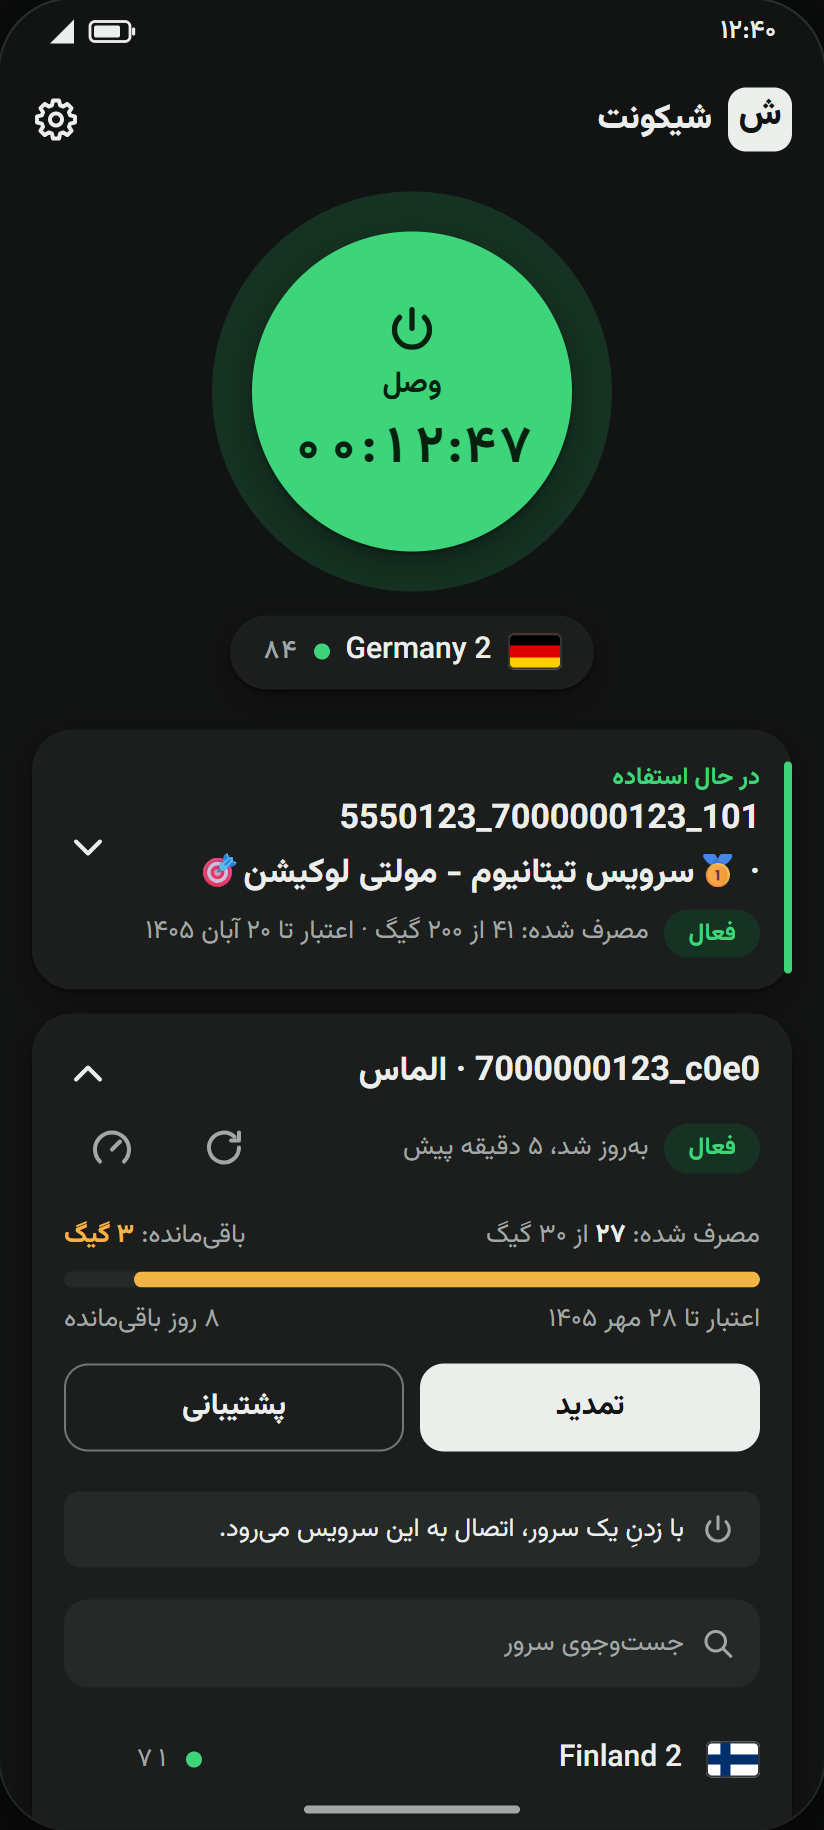
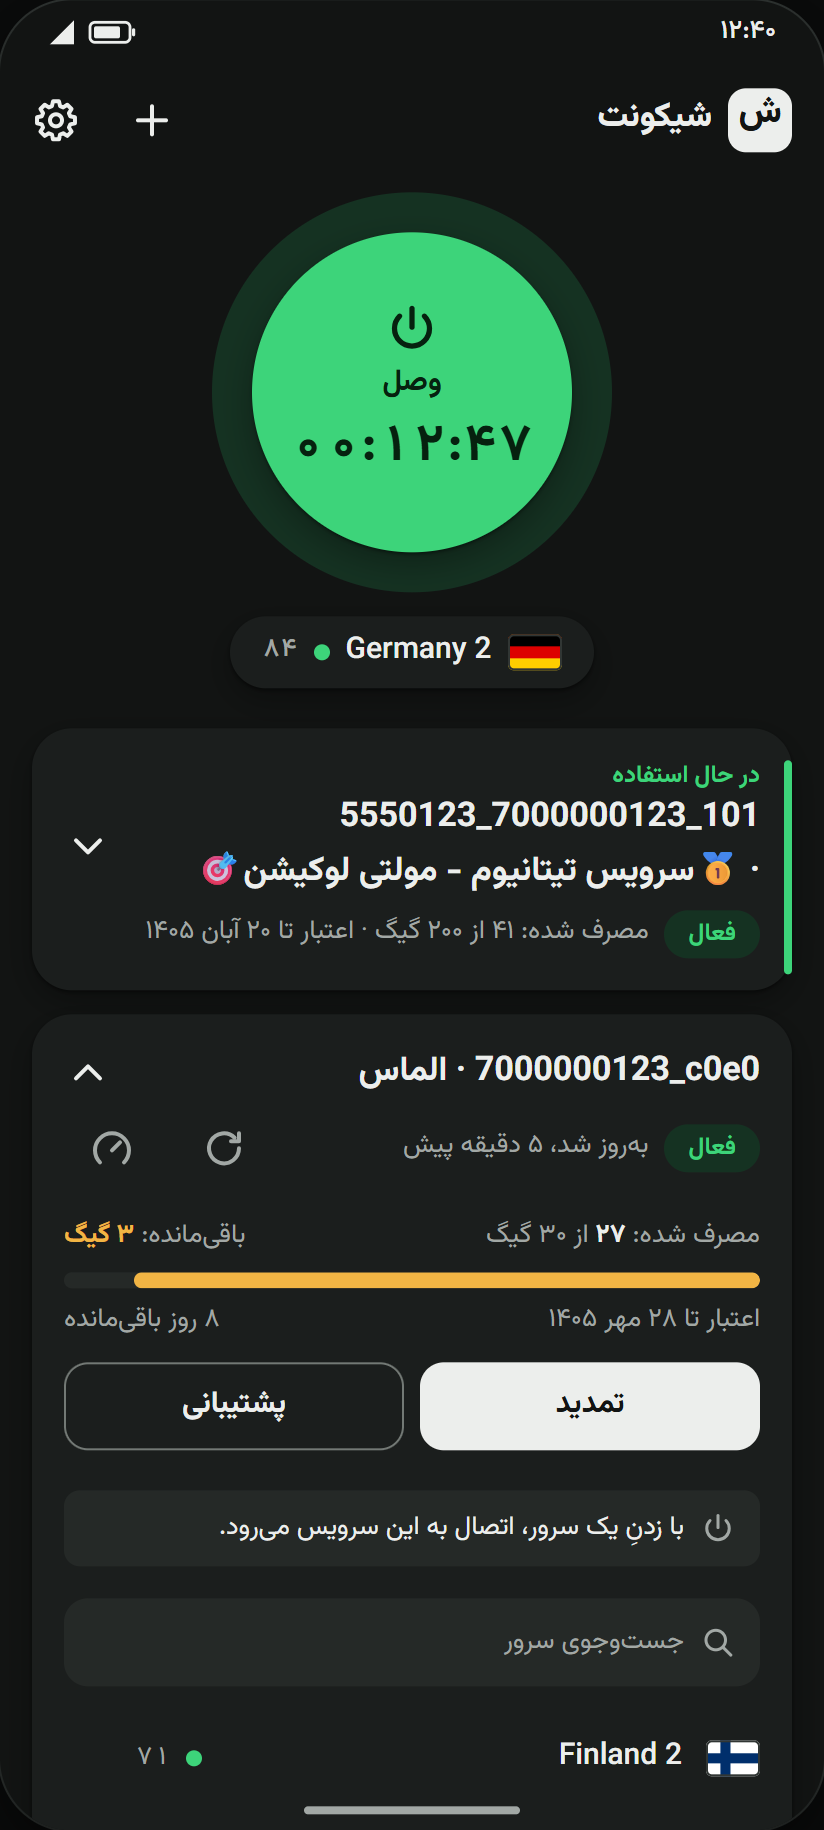
fix(design): answer the review of the add and order picks
The picked «+» note names the separate screen and the no-service rule, the add screen note names the cards that really hold the paste block, the picked in-use and order frames get the «+», the name-fit comment points at the merged package, and revokedHelp now sends people to the «+» instead of Settings.

diff --git a/design/mockups/phone-five.html b/design/mockups/phone-five.html
@@ -85,7 +85,7 @@
       </div>
       <div class="gesture"></div>
     </div>
-    <p class="note">دکمهٔ «+» همیشه بالای خانه است، کنار چرخدنده؛ همان جایی که «+»ِ اپهای مشابه است. زدنش برگهٔ «افزودن سرویس» را باز میکند.</p>
+    <p class="note">دکمهٔ «+» بالای خانه است، کنار چرخدنده؛ همان جایی که «+»ِ اپهای مشابه است. زدنش صفحهٔ «افزودن سرویس» را باز میکند (قابهای «صفحه» پایینتر).</p>
     <p class="note">تصمیمشده: فقط گوشی، و تنها راه چسباندن لینک اشتراک شیکونت است. تلویزیون «+» ندارد.</p>
     <p class="note"><b>چرا</b>یک زدن از همان جایی که مشتری «+» را میجوید؛ به بلندی فهرست چیزی اضافه نمیکند و با هر تعداد سرویس همانجاست.</p>
     <p class="note">قاعدهٔ «+»: فقط روی گوشی، و هر وقت خانه دستکم یک کارت سرویس دارد، وارد شده باشی یا فقط با لینک چسبانده باشی. تلویزیون هیچوقت «+» ندارد. خانهای که هیچ سرویسی ندارد «+» ندارد، چون همانجا کارتش دکمهٔ چسباندن دارد؛ دو راه برای یک کار روی یک صفحه نمیآید.</p>
@@ -274,8 +274,8 @@
       </div>
       <div class="gesture"></div>
     </div>
-    <p class="note">«+» این صفحه را باز میکند. چیزی تازه ساخته نمیشود: همان بخشِ چسباندنِ اپ است (همان که در صفحهٔ ورود، ردیف «چسباندن لینک دیگر» در تنظیمات و کارتِ «لینک باطل شده» هست)، با پیامها بالای دکمه و «ارسال گزارش به پشتیبانی». فقط یک نوار بالا با برگشت و عنوان، و یک خط راهنما دورش است.</p>
-    <p class="note">فرق با طرحِ قبلیِ این صفحه: دایره و خطِ «فقط لینک اشتراک شیکونت» برداشته شدند؛ پیام «شیکونت نیست» همان را وقتی لازم است میگوید. دکمه پُر است، مثل کارتِ «لینک باطل شده»، چون تنها کارِ صفحه است.</p>
+    <p class="note">«+» این صفحه را باز میکند. چیزی تازه ساخته نمیشود: همان بخشِ چسباندنِ اپ است (همان که در صفحهٔ ورود، ردیف «چسباندن لینک دیگر» در تنظیمات، و کارتِ خانه وقتی هیچ سرویسی روی گوشی نیست، هست)، با پیامها بالای دکمه و «ارسال گزارش به پشتیبانی». فقط یک نوار بالا با برگشت و عنوان، و یک خط راهنما دورش است.</p>
+    <p class="note">فرق با طرحِ قبلیِ این صفحه: دایره و خطِ «فقط لینک اشتراک شیکونت» برداشته شدند؛ پیام «شیکونت نیست» همان را وقتی لازم است میگوید. دکمه پُر است، مثل همان کارتِ خانهٔ بیسرویس، چون تنها کارِ صفحه است.</p>
     <p class="note">بعد از چسباندنِ درست، صفحه بسته میشود و خانه برمیگردد، مثل ردیف تنظیمات امروز. لینک هیچجا نشان داده نمیشود.</p>
   </figure>
 
@@ -752,7 +752,7 @@
       <div class="statusbar"><span>۱۲:۴۰</span><svg><use href="#sb"/></svg></div>
       <div class="appbar">
         <div class="brand"><span class="mark">ش</span><span>شیکونت</span></div>
-        <div class="appbar-actions"><button class="icon-btn" type="button" aria-label="تنظیمات"><svg class="icon"><use href="#i-gear"/></svg></button></div>
+        <div class="appbar-actions"><button class="icon-btn" type="button" aria-label="افزودن سرویس با لینک"><svg class="icon"><use href="#i-plus"/></svg></button><button class="icon-btn" type="button" aria-label="تنظیمات"><svg class="icon"><use href="#i-gear"/></svg></button></div>
       </div>
       <div class="home">
         <section class="power-zone is-on">

diff --git a/design/mockups/phone-states.html b/design/mockups/phone-states.html
@@ -534,7 +534,7 @@
           <div class="svc-line"><h2 class="svc-name"><bdi dir="ltr">user456</bdi> · طلایی</h2><svg class="icon"><use href="#i-chevron-up"/></svg></div>
           <div class="svc-row"><span class="chip chip-danger">لینک باطل شده</span><p class="svc-sub">بهروز نشد</p><span class="end"><button class="icon-btn" type="button" aria-label="بهروزرسانی سرورها"><svg class="icon"><use href="#i-refresh"/></svg></button></span></div>
         </header>
-        <p class="notice msg danger"><svg class="icon"><use href="#i-alert"/></svg><span><strong>این لینک باطل شده.</strong> حذفش کن، یا لینک تازه را از ربات یا نمایندهات بگیر و در «تنظیمات» بچسبان.</span></p>
+        <p class="notice msg danger"><svg class="icon"><use href="#i-alert"/></svg><span><strong>این لینک باطل شده.</strong> حذفش کن، یا لینک تازه را از ربات یا نمایندهات بگیر و با «+» بالای خانه بچسبان.</span></p>
         <div class="actions">
           <button class="btn btn-outline danger" type="button" aria-label="حذف user456 · طلایی">حذف</button>
           <button class="btn btn-outline" type="button">پشتیبانی</button>
@@ -543,7 +543,7 @@
       <article class="card svc">
         <header class="svc-head is-stacked">
           <div class="svc-line"><h2 class="svc-name"><bdi dir="ltr">user456</bdi> · طلایی</h2><svg class="icon"><use href="#i-chevron-down"/></svg></div>
-          <div class="svc-row"><span class="chip chip-danger">لینک باطل شده</span><p class="svc-summary">حذفش کن، یا لینک تازه را از ربات یا نمایندهات بگیر و در «تنظیمات» بچسبان.</p></div>
+          <div class="svc-row"><span class="chip chip-danger">لینک باطل شده</span><p class="svc-summary">حذفش کن، یا لینک تازه را از ربات یا نمایندهات بگیر و با «+» بالای خانه بچسبان.</p></div>
         </header>
       </article>
     </div>

diff --git a/design/mockups/phone-four.html b/design/mockups/phone-four.html
@@ -350,7 +350,7 @@
       <div class="statusbar"><span>۱۲:۴۰</span><svg><use href="#sb"/></svg></div>
       <div class="appbar">
         <div class="brand"><span class="mark">ش</span><span>شیکونت</span></div>
-        <button class="icon-btn" type="button" aria-label="تنظیمات"><svg class="icon"><use href="#i-gear"/></svg></button>
+        <div class="appbar-actions"><button class="icon-btn" type="button" aria-label="افزودن سرویس با لینک"><svg class="icon"><use href="#i-plus"/></svg></button><button class="icon-btn" type="button" aria-label="تنظیمات"><svg class="icon"><use href="#i-gear"/></svg></button></div>
       </div>
       <div class="home">
         <section class="power-zone is-on">
@@ -407,7 +407,7 @@
       <div class="statusbar"><span>۱۲:۴۰</span><svg><use href="#sb"/></svg></div>
       <div class="appbar">
         <div class="brand"><span class="mark">ش</span><span>شیکونت</span></div>
-        <button class="icon-btn" type="button" aria-label="تنظیمات"><svg class="icon"><use href="#i-gear"/></svg></button>
+        <div class="appbar-actions"><button class="icon-btn" type="button" aria-label="افزودن سرویس با لینک"><svg class="icon"><use href="#i-plus"/></svg></button><button class="icon-btn" type="button" aria-label="تنظیمات"><svg class="icon"><use href="#i-gear"/></svg></button></div>
       </div>
       <div class="home">
         <section class="power-zone">

diff --git a/design/mockups/mockup.js b/design/mockups/mockup.js
@@ -80,8 +80,7 @@ function mockScroll(view) {
 }
 // نام سرویس در جای ثابتش (تصمیم ۲۰ مهر): حداکثر data-lines خط (پیشفرض ۲؛ میشکند فقط پیش از «·»).
 // اگر جا نشد، قلم پلهپله تا --name-shrink-min ریز میشود؛ بعد نام کاربری (bdi) از وسط کوتاه میشود و پنج حرف
-// آخرش میماند؛ و اگر باز جا نشد، رده (.tier) از ته «…» میگیرد. قاعدهٔ بستهٔ ۱ (شاخهٔ feat/service-name-row،
-// هنوز ادغام نشده).
+// آخرش میماند؛ و اگر باز جا نشد، رده (.tier) از ته «…» میگیرد. همان قاعدهٔ ServiceName در اپ (بستهٔ ۱، PR #25).
 function fitName(el) {
   const user = el.querySelector('bdi');
   const tier = el.querySelector('.tier');
